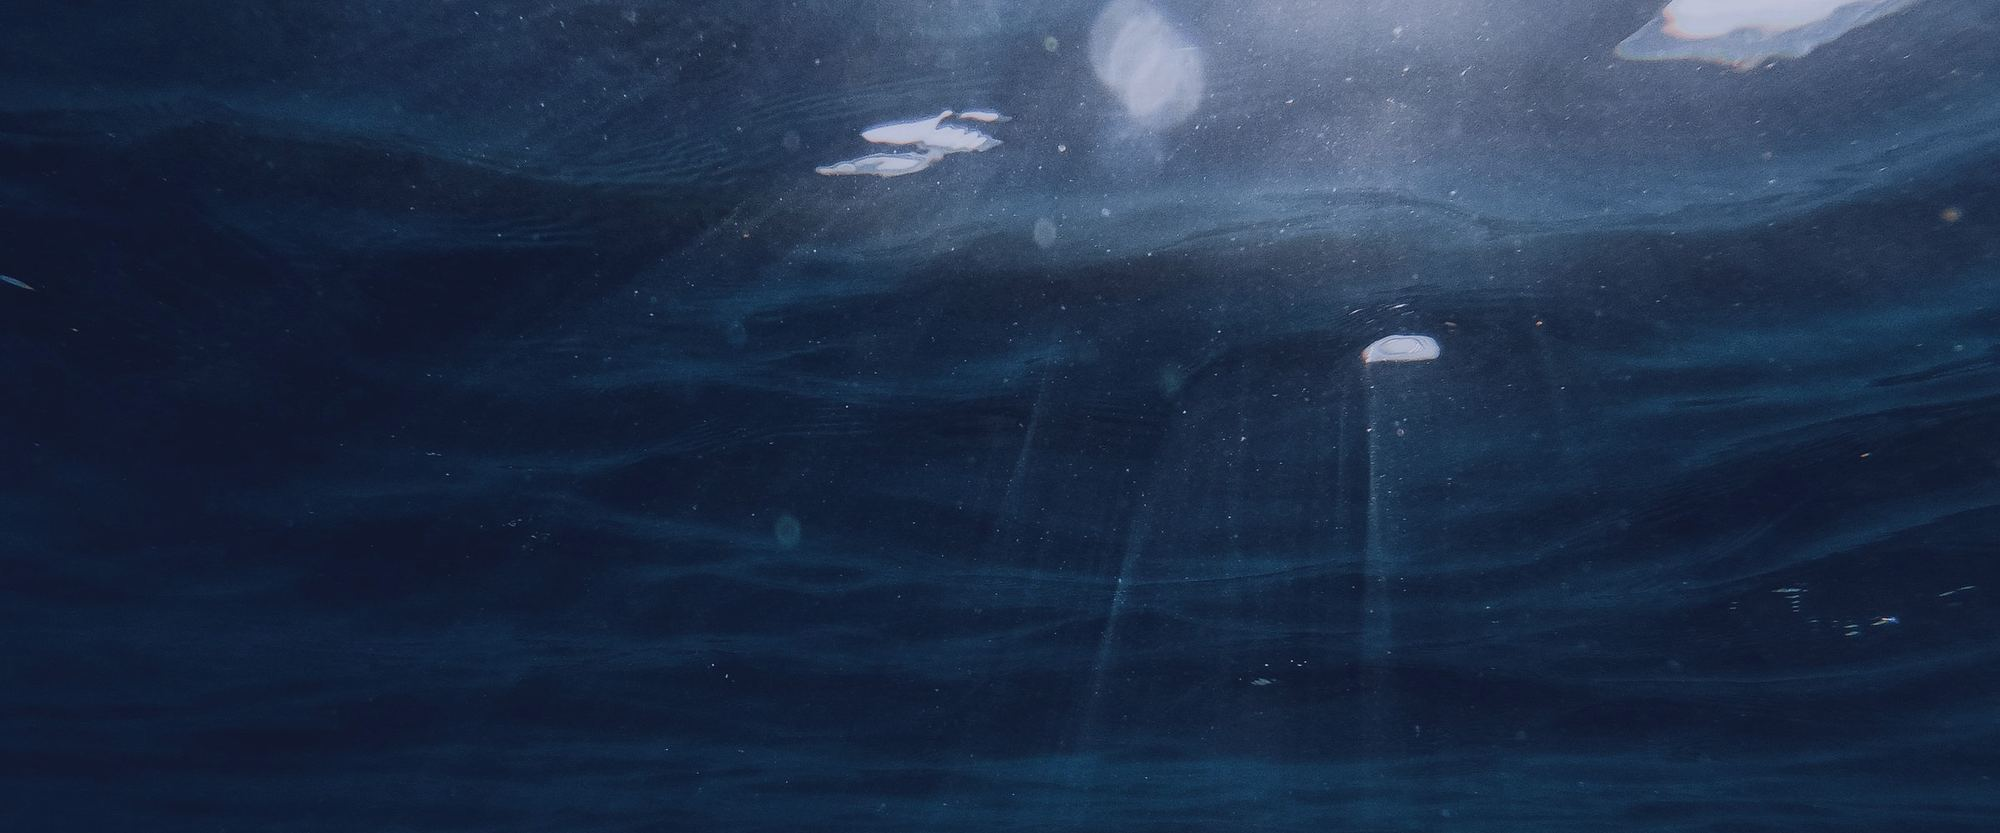
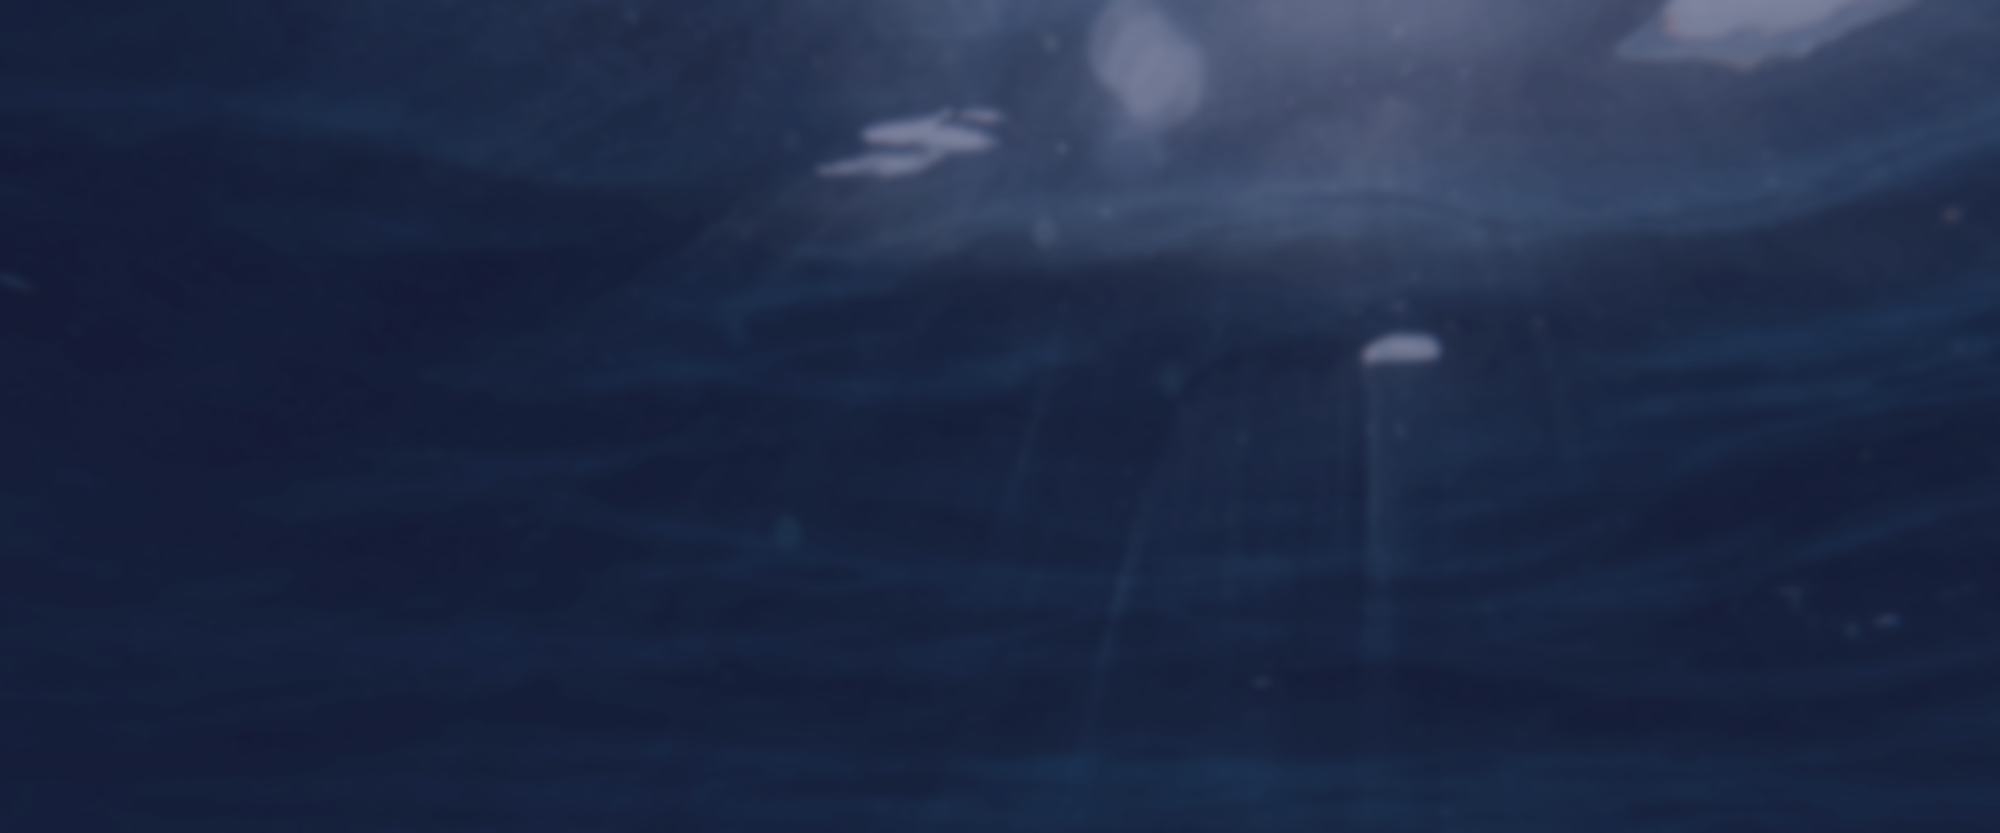
Cover: soften the photograph so the title leads
- Bake a light soft focus, lower saturation and a deeper nila tone into the cover photo
- Add a vignette and a stronger foot gradient behind the title; trim the panel height

Claude-Session: https://claude.ai/code/session_01Er8Hpy67qX5wHknT6MnoT1

Changed region(s): [[0.403, 0.0, 1.0, 0.437]]

diff --git a/assets/css/frontend.css b/assets/css/frontend.css
@@ -408,7 +408,7 @@ a:focus-visible, button:focus-visible { border-radius: var(--bwp-pill); }
     --c-ink: #fdfcf8; --c-dim: rgba(253, 252, 248, .78); --c-gold: #e3b84a;
     isolation: isolate;
     display: flex; flex-direction: column; justify-content: space-between; align-items: stretch;
-    min-height: clamp(380px, 46vw, 620px);
+    min-height: clamp(360px, 40vw, 560px);
     border-bottom: 0; border-radius: 40px;
     padding: clamp(1.4rem, 2.6vw, 2.2rem) clamp(1.25rem, 3.5vw, 3rem) clamp(1.6rem, 3vw, 2.6rem);
     margin-bottom: clamp(1.5rem, 3vw, 2.25rem);
@@ -422,8 +422,9 @@ a:focus-visible, button:focus-visible { border-radius: var(--bwp-pill); }
 .bwp-book-title--cover::after {
     content: ''; position: absolute; inset: 0; z-index: -1; pointer-events: none;
     background:
-        linear-gradient(180deg, rgba(10, 18, 54, .22) 0%, rgba(10, 18, 54, .06) 28%, rgba(10, 18, 54, .12) 50%, rgba(10, 18, 54, .78) 100%),
-        linear-gradient(90deg, rgba(10, 18, 54, .30) 0%, rgba(10, 18, 54, 0) 55%);
+        radial-gradient(120% 90% at 50% 45%, rgba(10, 18, 54, 0) 45%, rgba(10, 18, 54, .42) 100%),
+        linear-gradient(180deg, rgba(10, 18, 54, .28) 0%, rgba(10, 18, 54, .14) 30%, rgba(10, 18, 54, .22) 55%, rgba(10, 18, 54, .82) 100%),
+        linear-gradient(90deg, rgba(10, 18, 54, .32) 0%, rgba(10, 18, 54, 0) 55%);
 }
 .bwp-book-title__top { display: flex; justify-content: space-between; align-items: flex-start; gap: 1rem; position: relative; }
 .bwp-book-title__kicker {
@@ -432,7 +433,7 @@ a:focus-visible, button:focus-visible { border-radius: var(--bwp-pill); }
 }
 .bwp-book-title__seal { font-family: var(--bwp-font-jawi); font-size: clamp(1.3rem, 2.2vw, 1.9rem); line-height: 1; color: var(--c-gold); white-space: nowrap; }
 .bwp-book-title__block { position: relative; display: block; }
-.bwp-book-title--cover .bwp-book-title__name { color: var(--c-ink); text-shadow: 0 1px 2px rgba(6, 10, 30, .35); }
+.bwp-book-title--cover .bwp-book-title__name { color: var(--c-ink); text-shadow: 0 2px 18px rgba(6, 10, 30, .45); }
 .bwp-book-title__author {
     margin: 1.1rem 0 0; padding-top: 1rem; max-width: 36rem;
     border-top: 1px solid var(--c-gold);
